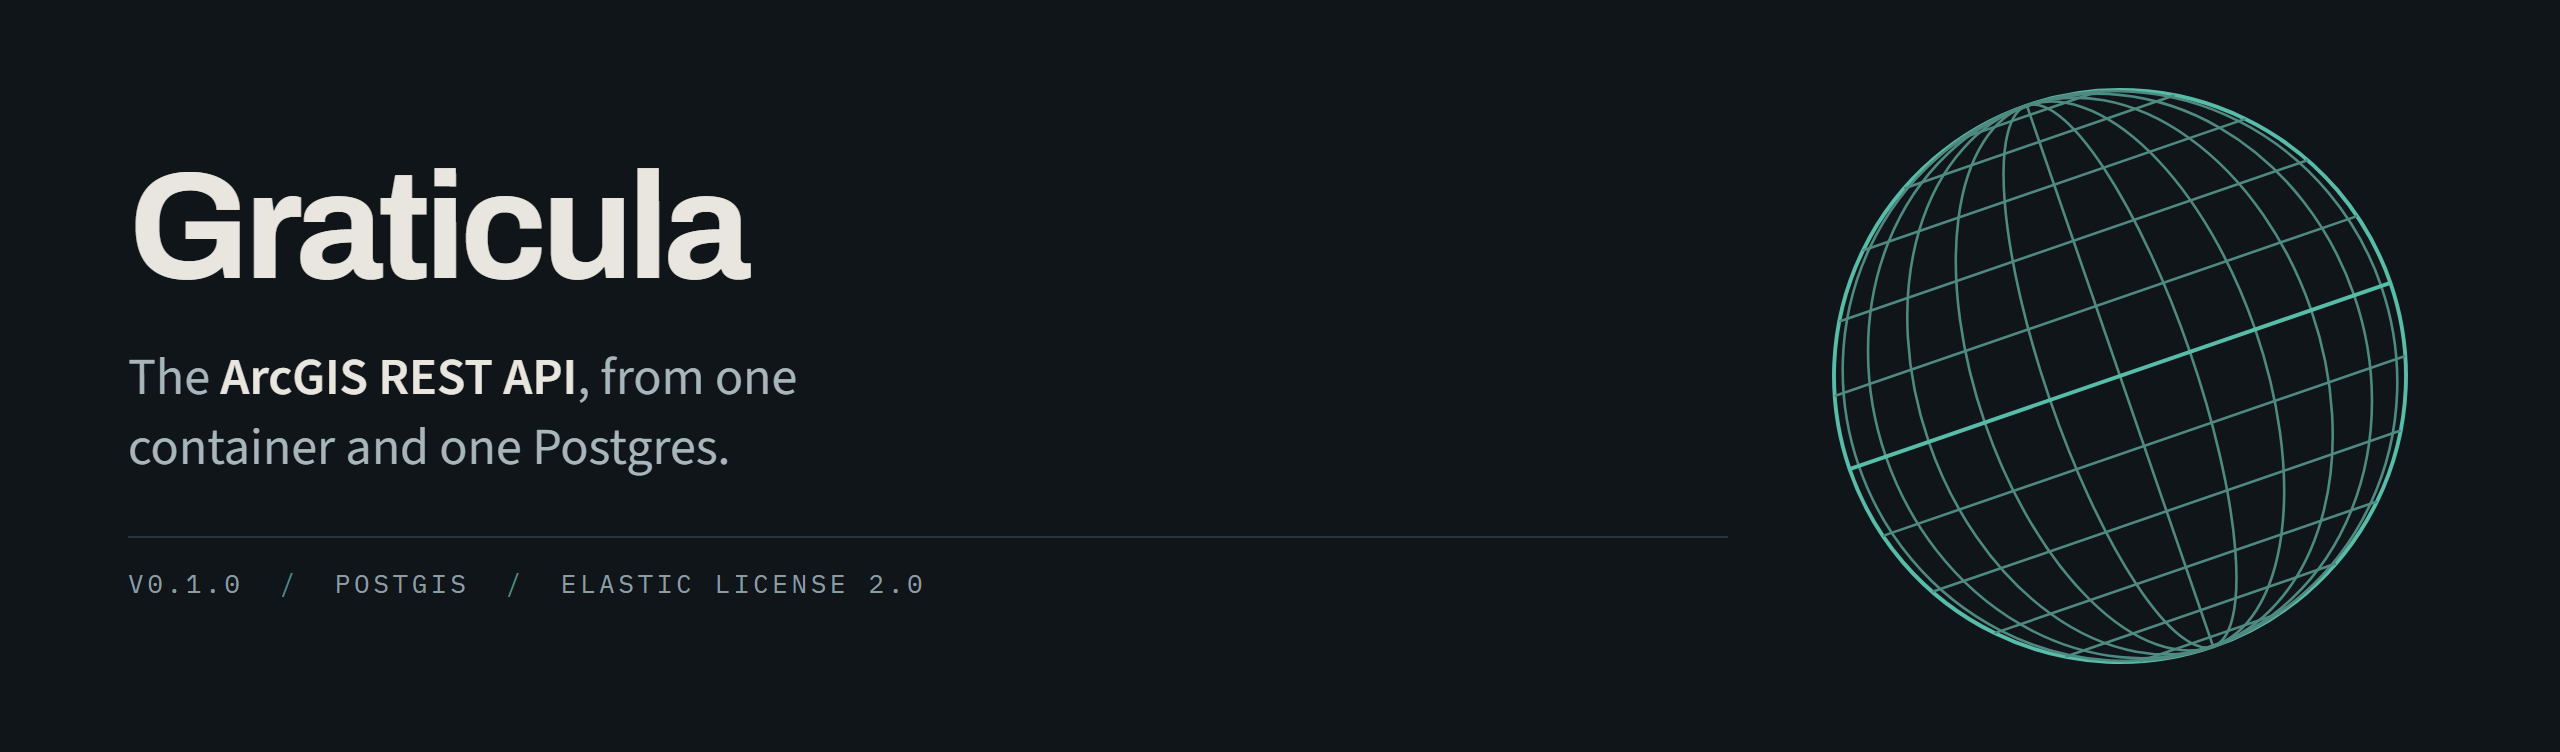
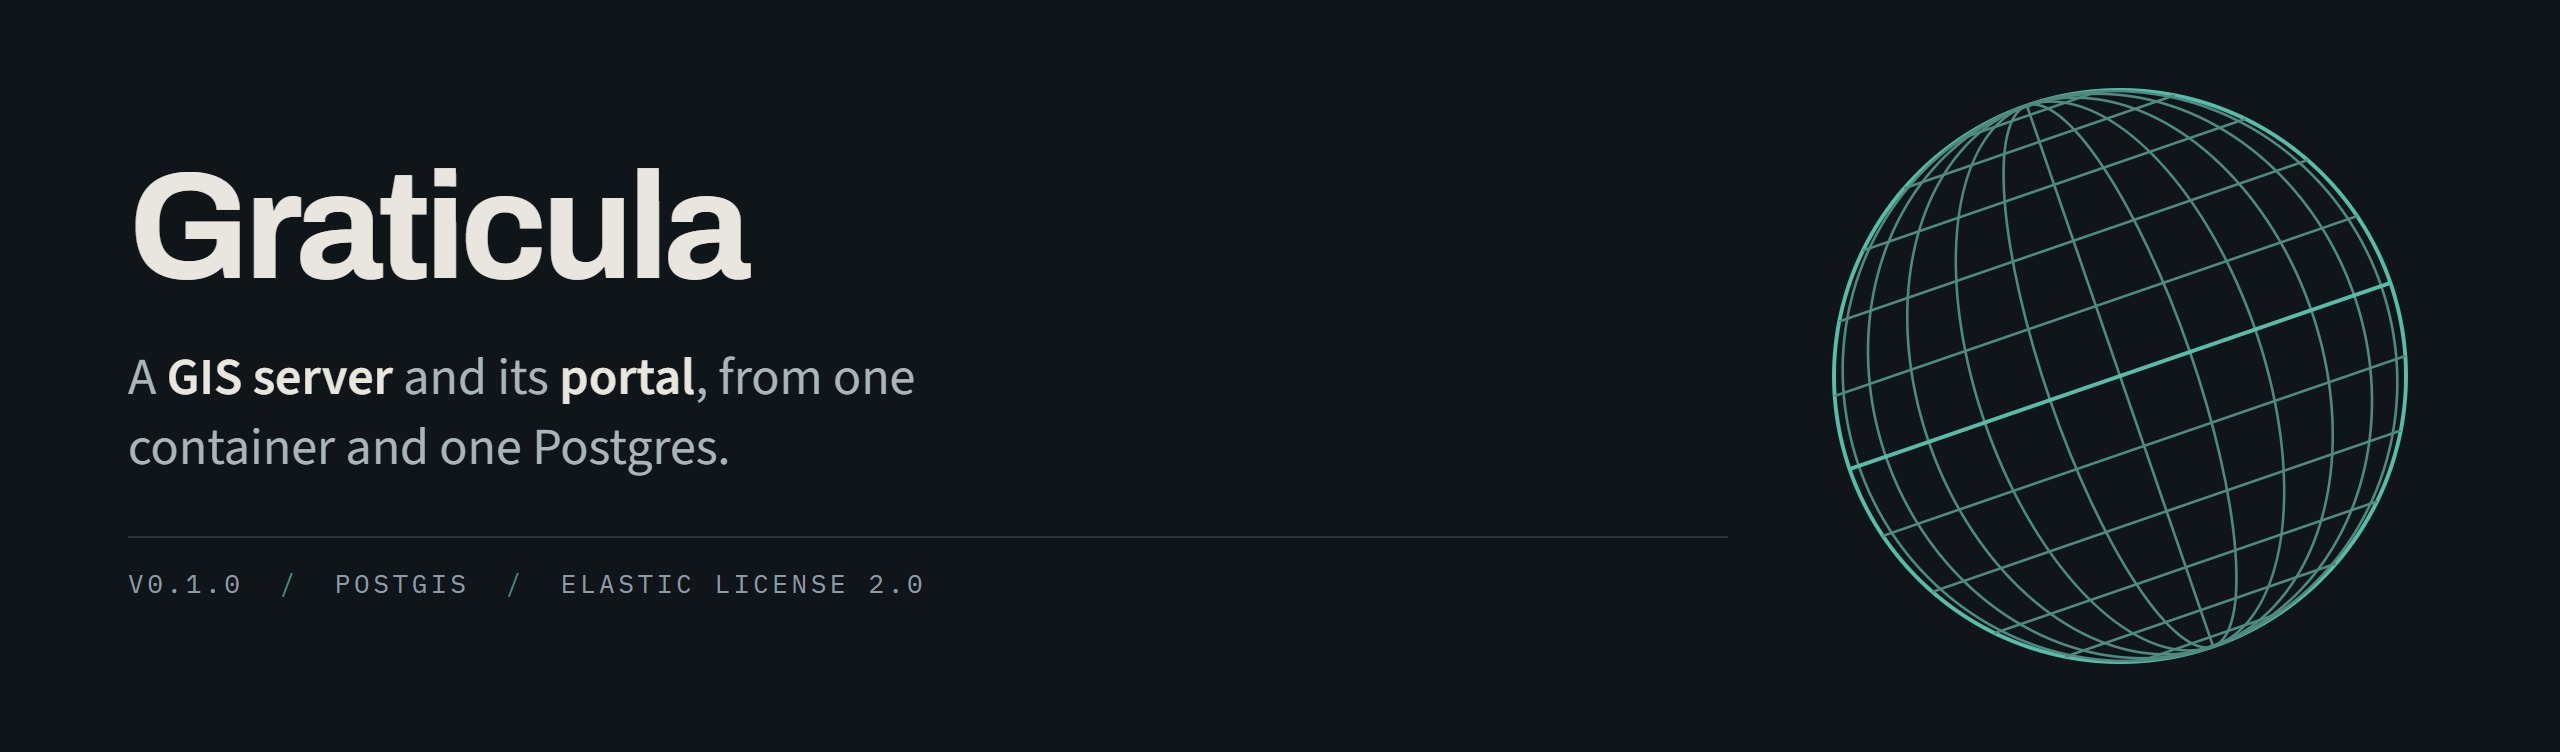
The pages say what this is: a GIS server, and its portal
Owner: *"Bu bir GIS Server uygulaması. Arcgis Server alternatifi gibi aslında
Studio tarafı da Portal alternatifi gibi. Öyle bahsetmeli."*

The decision was already recorded — `product-context.md` says Graticula is
Portal, Server and Data Store fused into one deployable, which is ADR-019. The
public pages just did not lead with it: they led with the protocol. *The ArcGIS
REST API, from one container and one Postgres* names what it speaks, never what
it is, so a reader had to work out from a comparison table halfway down that
Server is the GIS Server tier and Studio is the portal.

The banner, the hero, the README's opening and the two social descriptions now
say it: **a GIS server and its portal**, one process and one API with two doors,
fused rather than federated — which is where *no site to create, no data store
tier to install, no portal to federate* comes from rather than being a separate
boast. Both banner PNGs were regenerated from `banner.html` with the documented
Chrome invocation, so the dark variant did not drift.

**And a limit arrived with the claim, which is this page's own rule.** Calling
Studio *the portal* is honest about content and people — items, members, roles,
groups, sharing — and dishonest about the rest of Portal. There is a gap card
for that now: no web maps, no app builder, no Living Atlas. Studio authors
nothing; the services are the product and the client is yours. The gaps list
[…]

Changed region(s): [[0.0312, 0.4588, 0.375, 0.5505]]

diff --git a/docs/index.html b/docs/index.html
@@ -3,10 +3,10 @@
 <head>
 <meta charset="utf-8">
 <meta name="viewport" content="width=device-width, initial-scale=1">
-<meta name="description" content="Graticula is an ArcGIS-compatible GIS server that runs on PostGIS: feature, map, image, vector tile and geometry services from one container and one Postgres.">
+<meta name="description" content="Graticula is an ArcGIS-compatible GIS server and portal on PostGIS: feature, map, image, vector tile and geometry services, with items, members, roles and sharing, from one container and one Postgres.">
 <meta name="color-scheme" content="light dark">
 <meta property="og:title" content="Graticula">
-<meta property="og:description" content="The ArcGIS REST API, from one container and one Postgres.">
+<meta property="og:description" content="A GIS server and its portal, from one container and one Postgres.">
 <meta property="og:type" content="website">
 <title>Graticula</title>
 <link rel="preconnect" href="https://fonts.gstatic.com" crossorigin>
@@ -267,10 +267,13 @@ pre .k{color:var(--accent)}
     <div class="hero-grid">
       <div>
         <p class="eyebrow">Graticula <span class="sep">/</span> v0.1.0 <span class="sep">/</span> source-available</p>
-        <h1>The ArcGIS REST API, from one container and one Postgres.</h1>
-        <p class="lede">Publish a PostGIS table and it is a <b>feature service</b> at a URL your
-        existing clients already open. Pro connects, browses, adds the layer and edits it.
-        <b>No site to create, no data store tier to install, no portal to federate.</b></p>
+        <h1>A GIS server and its portal, from one container and one Postgres.</h1>
+        <p class="lede"><b>Server</b> does what a GIS Server site does: services at
+        <span class="nm">/rest/services</span>, published out of PostGIS, opened by the clients
+        you already have. <b>Studio</b> does what the portal does &mdash; items, members, roles,
+        groups, sharing. They are one process and one API with two doors, because the three tiers
+        are fused rather than federated:
+        <b>no site to create, no data store tier to install, no portal to federate.</b></p>
         <div class="acts">
           <a class="btn btn-a" href="#start">Run it in four steps</a>
           <a class="btn btn-b" href="#gaps">Read what is missing</a>
@@ -355,7 +358,8 @@ pre .k{color:var(--accent)}
               <tr><td>Server Manager</td>
                   <td><b>Server</b>, the console an operator signs in to.</td></tr>
               <tr><td>Portal for ArcGIS</td>
-                  <td><b>Studio</b>, where publishers work. One API, two doors.</td></tr>
+                  <td><b>Studio</b>, where publishers work &mdash; items, members, roles, groups
+                  and sharing. One API, two doors, nothing to federate.</td></tr>
               <tr><td><span class="nm">/arcgis/rest/services/&hellip;</span></td>
                   <td><span class="nm">/rest/services/&hellip;</span> &mdash; the same document shapes.</td></tr>
               <tr><td>Tokens from <span class="nm">generateToken</span></td>
@@ -514,6 +518,23 @@ pre .k{color:var(--accent)}
             <div>
               <h3>No geocoding service</h3>
               <p>Address parsing, matching and reverse geocoding are designed and unbuilt.</p>
+            </div>
+          </div>
+
+          <!--
+            <b>Added 2026-09-07, with the framing above.</b> Calling Studio *the portal* is
+            [ADR-019](adr/ADR-019-portal-server-split.md)'s decision and it is the honest word
+            for what it does with content and people. It is not the honest word for the rest of
+            Portal, and this page's rule is that a limit goes on the front page rather than
+            being discovered later.
+          -->
+          <div class="gap">
+            <i class="sw none"><span class="vh">Not built.</span></i>
+            <div>
+              <h3>No web maps, apps or dashboards</h3>
+              <p>Studio is the portal's job for <b>content and people</b> &mdash; items, members,
+              roles, groups, sharing. It authors nothing: there is no web map to save, no app
+              builder and no Living Atlas. Bring your own client; the services are the product.</p>
             </div>
           </div>
 

diff --git a/docs/banner.html b/docs/banner.html
@@ -48,7 +48,7 @@ svg{width:312px;height:312px;display:block}
 
   <div>
     <p class="mark">Graticula</p>
-    <p class="thesis">The <b>ArcGIS REST API</b>, from one container and one Postgres.</p>
+    <p class="thesis">A <b>GIS server</b> and its <b>portal</b>, from one container and one Postgres.</p>
     <p class="meta">
       <span>v0.1.0</span><i>/</i>
       <span>PostGIS</span><i>/</i>

diff --git a/README.md b/README.md
@@ -1,11 +1,18 @@
 <picture>
   <source media="(prefers-color-scheme: dark)" srcset="docs/banner-dark.png">
-  <img alt="Graticula — the ArcGIS REST API, from one container and one Postgres. v0.1.0, PostGIS, Elastic License 2.0." src="docs/banner-light.png">
+  <img alt="Graticula — a GIS server and its portal, from one container and one Postgres. v0.1.0, PostGIS, Elastic License 2.0." src="docs/banner-light.png">
 </picture>
 
-Publish a PostGIS table and it is a feature service at a URL your existing clients
-already open. ArcGIS Pro connects, browses, adds the layer and edits it. There is no
-site to create, no data store tier to install and no portal to federate.
+**A GIS server and its portal, in one process.** `Server` does what a GIS Server site
+does — services at `/rest/services`, published out of PostGIS, opened by the clients you
+already have. `Studio` does what the portal does for content and people — items, members,
+roles, groups, sharing. ArcGIS Pro connects, browses, adds the layer and edits it.
+
+The three tiers are fused rather than federated
+([ADR-019](docs/adr/ADR-019-portal-server-split.md)), so there is no site to create, no
+data store tier to install and no portal to federate. What Studio does *not* do is author:
+no web maps, no app builder, no Living Atlas — the services are the product and the client
+is yours.
 
 **[The overview page](https://erdinckyildiz.github.io/graticula/)** says the same thing
 with room to breathe. A *graticule* is the net of meridians and parallels drawn on a map;
